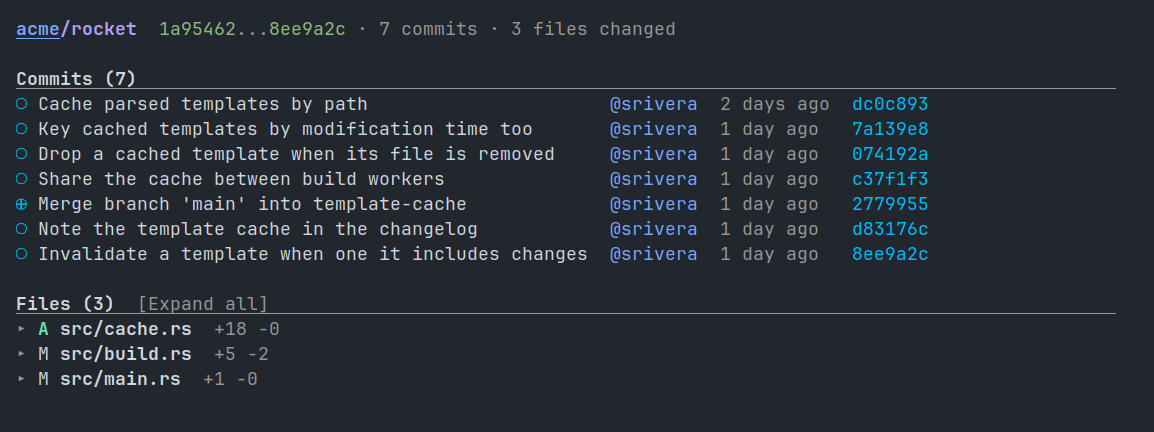
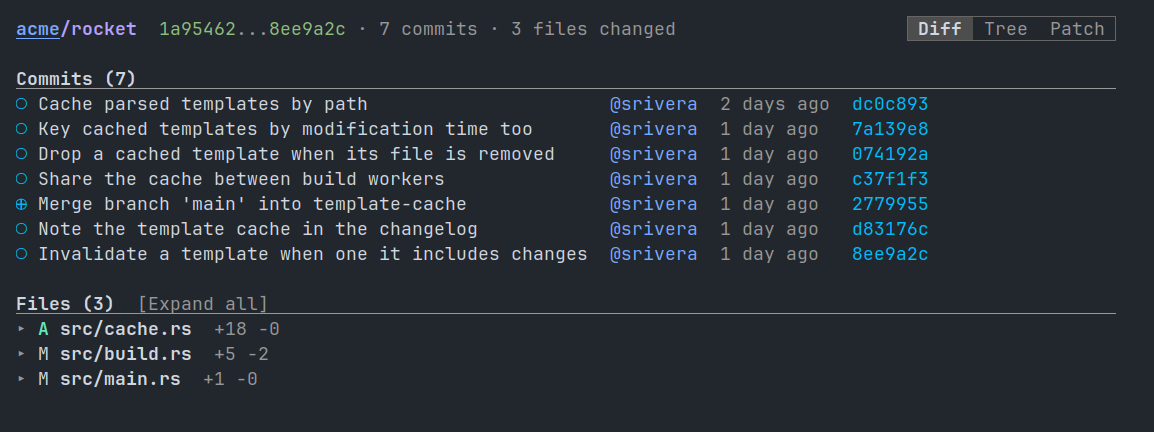
Give a comparison Diff, Tree and Patch views, as a commit has
The compare page gets the commit page's views, their pill at the right
of its top line and in its pinned header: the Tree, the repository's
files at HEAD opened down to those changed, RET on one showing its
diff, and the Patch, every file's diff as git writes it.  C-c C-v
cycles them, as on the commit and PR pages, in place of showing
markdown raw.  The tree at a head, which the PR's files used alone, is
now octocat-diff-head-tree, shared by both.

Changed region(s): [[0.7799, 0.0301, 0.9671, 0.1204]]

diff --git a/docs/usage.md b/docs/usage.md
@@ -381,6 +381,10 @@ Files (5)  [Expand all]
 ```
 
 `RET` on a commit opens it, `C-c C-o` opens the comparison in a browser.
+As on the commit page, `C-c C-v` cycles three views, their pill at the
+right of the top line: the Diff above; the Tree, the repository's files
+at HEAD opened down to those changed, `RET` on one showing its diff;
+and the Patch, every file's diff as git writes it, to read or copy out.
 GitHub's API only compares from the merge base (`...`), so a two-dot
 link (`BASE..HEAD`) is shown as its three-dot comparison.  The two are
 the same when BASE is an ancestor of HEAD, as with two commits of one
@@ -549,10 +553,11 @@ back.  Pages showing markdown switch between rendered and raw text, so
 the markup can be read or copied as written.  The file page has more
 than two views and cycles through them: rendered, raw and blame for
 Markdown and org, source and blame for other files (see
-[Files](#files-octocat-file-mode)).  The commit page and a PR's Files
-changed page cycle through their files' Diff, Tree and Patch (see
+[Files](#files-octocat-file-mode)).  The commit page, a comparison and
+a PR's Files changed page cycle through their files' Diff, Tree and Patch (see
 [Commit detail view](#commit-detail-view-octocat-commit-mode)); on a
-PR they are of all its commits at once, from base to head.  A run's
+comparison or a PR they are of all its commits at once, from base to
+head.  A run's
 page switches its jobs between a table and a graph.  On those two
 pages, the [Hide comments (N)] button in the Files heading shows
 or hides the review comments in the diff, which opening the page shows

diff --git a/README.md b/README.md
@@ -92,7 +92,7 @@ Optional extras:
 | `m` / `u` / `U` | Mark / unmark the PR or issue at point, or those in the region / unmark all |
 | `C-c C-o` | Open the thing at point on GitHub |
 | `C-c C-j` | Jump to a PR, issue, commit, workflow or file (`C-u`: another repo or user) |
-| `C-c C-v` | Another view, cycling where there are several: raw markdown or org, blame, a commit's or PR's tree or patch, a run's jobs as a graph, compact lists, review comments in diffs |
+| `C-c C-v` | Another view, cycling where there are several: raw markdown or org, blame, a commit's, comparison's or PR's tree or patch, a run's jobs as a graph, compact lists, review comments in diffs |
 | `C-c C-a` | Comment on a PR or issue |
 | `C-c C-e` | Edit the title, body, comment, labels, assignees or reviewers at point |
 | `C-c C-l` | React to the PR, issue or comment at point, or take a reaction back |

diff --git a/CHANGELOG.md b/CHANGELOG.md
@@ -6,6 +6,7 @@ The format is based on [Keep a Changelog](https://keepachangelog.com/en/1.0.0/).
 ## [Unreleased]
 * A pulsed change scrolls into view whole when it is at most half the window
 * A pinned header keeps its switch of views at the right edge, as on the page
+* A comparison has Diff, Tree and Patch views too; `C-c C-v` switches them
 * A diff's comments show and hide from a [Hide comments (N)] button, not a pill
 * A page's switch of views, as Diff | Tree | Patch, sits at the right edge of its line
 * `RET` on a changed file in a Tree view shows its diff, not the file

diff --git a/docs/screenshots/README.md b/docs/screenshots/README.md
@@ -305,6 +305,15 @@ files.
 [As text](compare.txt)
 <!-- /screenshot -->
 
+`C-c C-v` cycles a comparison's views as a commit's: its Tree, the
+files at HEAD opened down to those changed, then its Patch.
+
+<!-- screenshot: (compare "acme/rocket" "main" "..." "template-cache") :name "compare-tree" :press ((:key "C-c C-v")) -->
+![compare-tree](compare-tree.png)
+
+[As text](compare-tree.txt)
+<!-- /screenshot -->
+
 Two commits compared, as from a commit page's link: a full SHA shows as
 its short form, whole on hover.
 
